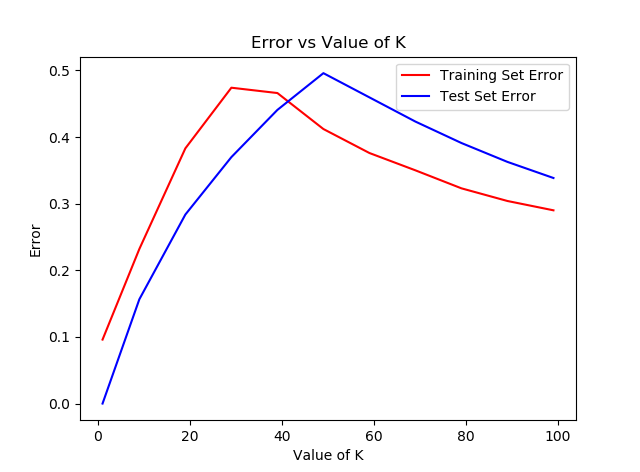
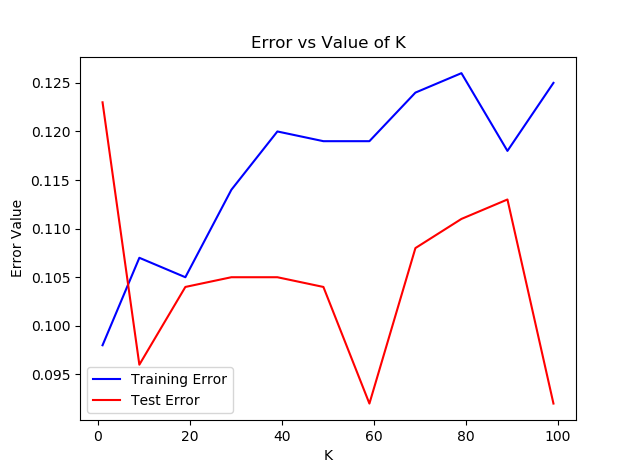
Training error and the model might be worng but still gave it a try

diff --git a/SML_Assignment2/KNN4.py b/SML_Assignment2/KNN4.py
@@ -65,17 +65,18 @@ class KNN(object):
                 kArrayTrainingClasses=[];
                 kArrayTrainingClasses_training = [];
                 for classLoop in range(len(getClass)):
-                    kArrayTrainingClasses.append(trainingSet.iloc[:, 0:1].iloc[getClass[classLoop]][0])
-                finalClass.append(numpy.amax(kArrayTrainingClasses) );
+                    kArrayTrainingClasses.append(trainingSet.iloc[:, 0:1].iloc[getClass[classLoop]-1][0])
+                finalClass.append((scipy.stats.mode(kArrayTrainingClasses,axis=0)[0])[0] );
 
-            for trainingLoop in range(trainingSet.shape[0]):
-                distances_from_i_dict_training = dict(enumerate(result_training[trainingLoop]))
-                distances_from_i_dict_training = sorted(distances_from_i_dict_training.items(), key=operator.itemgetter(1))
+                distances_from_i_dict_training = dict(enumerate(result_training[testLoop]))
+                distances_from_i_dict_training = sorted(distances_from_i_dict_training.items(),
+                                                        key=operator.itemgetter(1))
                 getClass_training = self.findClass(distances_from_i_dict_training[:Kinput], Kinput)
                 kArrayTrainingClasses_training = [];
                 for classLoop_training in range(len(getClass_training)):
-                    kArrayTrainingClasses_training.append(trainingSet.iloc[:, 0:1].iloc[getClass_training[classLoop_training]][0])
-                finalClass_training.append(numpy.amax(kArrayTrainingClasses_training));
+                    kArrayTrainingClasses_training.append(
+                        trainingSet.iloc[:, 0:1].iloc[getClass_training[classLoop_training] - 1][0])
+                finalClass_training.append((scipy.stats.mode(kArrayTrainingClasses_training, axis=0)[0])[0]);
 
             finalClass=pd.DataFrame(numpy.array(finalClass).reshape(1, 1000))
             data = Counter(numpy.sum(finalClass == testSet.iloc[:, :1].T, axis=0))
@@ -83,12 +84,12 @@ class KNN(object):
             testError=1-accuracy;
             kTest[Kinput]=testError;
 
-            finalClass_training = pd.DataFrame(numpy.array(finalClass_training).reshape(1, 6000))
-            data_training = Counter(numpy.sum(finalClass_training == trainingSet.iloc[:, :1].T, axis=0))
-            accuracy_training = data_training.most_common(1)[0][1] / 6000;
+            finalClass_training = pd.DataFrame(numpy.array(finalClass_training).reshape(1, 1000))
+            data_training = Counter(numpy.sum(finalClass_training == testSet.iloc[:, :1].T, axis=0))
+            accuracy_training = data_training.most_common(1)[0][1] / 1000;
             trainingError = 1 - accuracy_training;
             kTraining[Kinput] = trainingError;
-        self.plot_learning_curve(kTest,kTraining)
+        self.plotCurve(kTest,kTraining)
             # self.findAccuracy(finalClass)
 
 
@@ -101,13 +102,13 @@ class KNN(object):
             i=i+1;
         return getInitialClass;
 
-    def plot_learning_curve(self, plot_curve1_dict, plot_curve2_dict):
+    def plotCurve(self, plot_curve1_dict,plot_curve2_dict):
         x, y_error1 = zip(*sorted(plot_curve1_dict.items()))
         x, y_error2 = zip(*sorted(plot_curve2_dict.items()))
         fig = plt.figure()
         plt.title('Error vs Value of K')
-        plt.plot(x, y_error1, 'b', label='Training Error')
-        plt.plot(x, y_error2, 'r', label='Test Error')
+        plt.plot(x, y_error1, 'b', label='Test Error')
+        plt.plot(x, y_error2, 'r', label='Training Error')
         plt.ylabel('Error Value')
         plt.xlabel('K')
         plt.legend()
@@ -129,9 +130,9 @@ class KNN(object):
 if __name__ == "__main__":
     obj = KNN();
     # obj.input_data()
-    # obj.convert('train-images.idx3-ubyte','train-labels.idx1-ubyte','Training.csv',6000);
-    # obj.convert('t10k-images.idx3-ubyte', 't10k-labels.idx1-ubyte', 'Testing.csv', 1000);
-    obj.KNNAlgo(pd.read_csv('Testing.csv', sep=",", header=None),pd.read_csv('Training.csv', sep=",", header=None))
+    obj.convert('train-images.idx3-ubyte','train-labels.idx1-ubyte','Training.csv',6000);
+    obj.convert('t10k-images.idx3-ubyte', 't10k-labels.idx1-ubyte', 'Testing.csv', 10000);
+    obj.KNNAlgo(pd.read_csv('Testing.csv', sep=",", header=None, skiprows=9000),pd.read_csv('Training.csv', sep=",", header=None))
 
 
 
